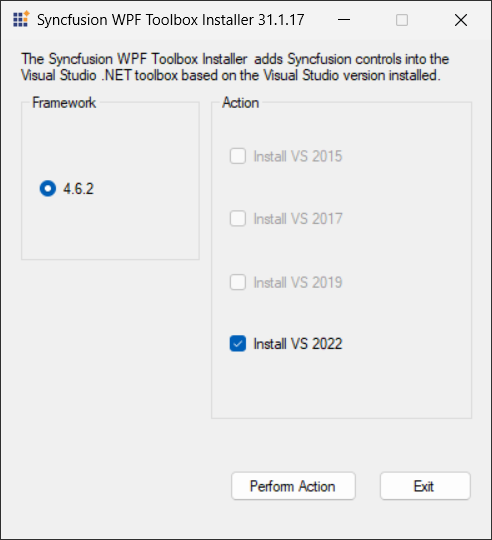
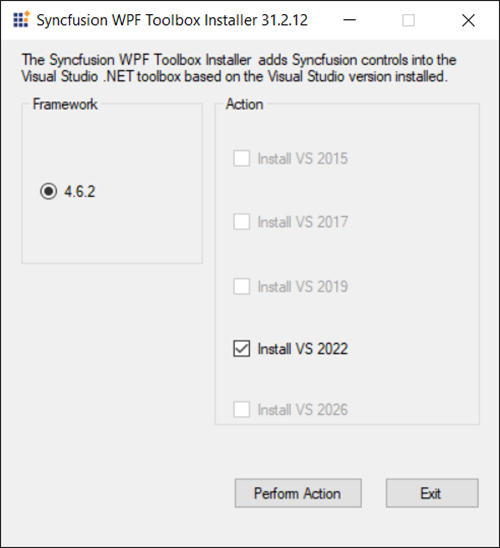
Added Toolbox and VS 2026 changes

diff --git a/Common/Essential-Studio/Utilities.md b/Common/Essential-Studio/Utilities.md
@@ -187,10 +187,10 @@ You can also open the Assembly Manager from {Installed location}\Syncfusion\Esse
    The Framework group box comprises of check boxes for the .NET Framework versions based on the Visual Studio SDK installed in the machine. The following check boxes are available:
 
    * 4.6.2 - Selecting **4.6.2** ensures installation of 4.6.2 assemblies into the GAC and assemblies folder. In cases where only Visual Studio 2017 SDK is installed, the 4.6.2 assemblies have to be deployed.
-   * 4.0 - Selecting **4.0** ensures installation of 4.0 assemblies into the GAC and assemblies folder. In cases where only Visual Studio 2015 SDK is installed, the 4.0 assemblies have to be deployed.   
 
    N> * From 2018 Volume 4, Syncfusion<sup style="font-size:70%">&reg;</sup> has removed the .NET Framework 4.5.1 and MVC3 assemblies from installer. Refer to [this](https://help.syncfusion.com/common/essential-studio/installation/essential-studio-platform-framework-add-ons) topic to enable 4.5.1 checkboxes.  
    * By default 2.0 is enabled in a system where Visual Studio 2008 SDK is installed.
+   * From 2024 Volume 4, Syncfusion<sup style="font-size:70%">&reg;</sup> has removed the .NET Framework 4.0 from installer.
 
 7. Click Perform Action. It starts processing.
 
@@ -279,9 +279,10 @@ You can copy the product key from the License Manager window to the clipboard. T
 
 ## Toolbox Configuration 
 
-Syncfusion<sup style="font-size:70%">&reg;</sup> provides toolbox support for WPF, Windows Forms, ASP.NET Web Forms, UWP and Xamarin platforms. The Syncfusion<sup style="font-size:70%">&reg;</sup> Toolbox Installer utility adds the Syncfusion<sup style="font-size:70%">&reg;</sup> controls into the Visual Studio .NET toolbox.
+Syncfusion<sup style="font-size:70%">&reg;</sup> provides toolbox support for WPF, Windows Forms, ASP.NET Web Forms, UWP, Xamarin, PDF Viewer SDK, Spreadsheet Editor SDK and DOCX Editor SDK platforms. The Syncfusion<sup style="font-size:70%">&reg;</sup> Toolbox Installer utility adds the Syncfusion<sup style="font-size:70%">&reg;</sup> controls into the Visual Studio .NET toolbox.
 
-N> Toolbox configuration support is not available for the Visual Studio Express Edition. However, you can manually configure the Syncfusion<sup style="font-size:70%">&reg;</sup> controls into the Visual Studio Express Toolbox. To do so, refer the [Manual Toolbox Configuration](https://help.syncfusion.com/common/faq/how-to-configure-the-toolbox-of-visual-studio-manually) .
+N> * Starting with the 2022 Volume 4 SP release, Syncfusion<sup style="font-size:70%">&reg;</sup> officially marked the EJ1 product as retired.
+* Toolbox configuration support is not available for the Visual Studio Express Edition. However, you can manually configure the Syncfusion<sup style="font-size:70%">&reg;</sup> controls into the Visual Studio Express Toolbox. To do so, refer the [Manual Toolbox Configuration](https://help.syncfusion.com/common/faq/how-to-configure-the-toolbox-of-visual-studio-manually) .
 
 ### Configuring Toolbox
 
@@ -315,8 +316,9 @@ To launch Toolbox configuration utility, follow the steps given below:
    
    * Install VS2015 – Configures Framework 4.6.2 Syncfusion<sup style="font-size:70%">&reg;</sup> controls in VS 2015 toolbox.
    * Install VS2017 – Configures Framework 4.6.2 Syncfusion<sup style="font-size:70%">&reg;</sup> controls in VS 2017 toolbox.
-   * Install VS2019 – Configures Framework 4.6.2 Syncfusion<sup style="font-size:70%">&reg;</sup> controls in VS 2019 toolbox
-   * Install VS2022 – Configures Framework 4.6.2 Syncfusion<sup style="font-size:70%">&reg;</sup> controls in VS 2022 toolbox
+   * Install VS2019 – Configures Framework 4.6.2 Syncfusion<sup style="font-size:70%">&reg;</sup> controls in VS 2019 toolbox.
+   * Install VS2022 – Configures Framework 4.6.2 Syncfusion<sup style="font-size:70%">&reg;</sup> controls in VS 2022 toolbox.
+   * Install VS2026 – Configures Framework 4.6.2 Syncfusion<sup style="font-size:70%">&reg;</sup> controls in VS 2026 toolbox.
    
     N> You can also configure Syncfusion<sup style="font-size:70%">&reg;</sup> controls from a lower version Framework assembly to higher version of Visual Studio.
    
@@ -329,12 +331,21 @@ To launch Toolbox configuration utility, follow the steps given below:
 
    * This tool configures only the controls that are located under {Installed Location}\Assemblies\{Framework version}.
 
+### Configuring toolbox in Visual Studio 2026   
+
+From 2025 Volume 3 SP 2 Release, Syncfusion<sup style="font-size:70%">&reg;</sup> started providing toolbox support for .NET Framework and .NET 8.0\9.0\10.0 in Visual Studio 2026 Toolbox. After installing the Syncfusion<sup style="font-size:70%">&reg;</sup> product installer, Syncfusion<sup style="font-size:70%">&reg;</sup> controls will be automatically configured in the Visual Studio 2026 toolbox for WPF, Windows projects.
+
 ### Configuring toolbox in Visual Studio 2022   
 
 From 2021 Volume 3, Syncfusion<sup style="font-size:70%">&reg;</sup> started providing toolbox support for .NET Framework and .NET 5.0\6.0 in Visual Studio 2022 Toolbox. After installing the Syncfusion<sup style="font-size:70%">&reg;</sup> product installer, Syncfusion<sup style="font-size:70%">&reg;</sup> controls will be automatically configured in the Visual Studio 2022 toolbox for WPF, Windows, and ASP.NET Web Forms projects.
 
 N> * Syncfusion<sup style="font-size:70%">&reg;</sup> WPF .NET 5.0 controls will be compatible with .NET 6.0, on installing the Syncfusion<sup style="font-size:70%">&reg;</sup> WPF installer, our .NET 5.0 controls will be configured the toolbox for .NET 6.0 projects too.
 * Syncfusion<sup style="font-size:70%">&reg;</sup> only supports ASP.NET Web Forms Toolbox in .NET Frameworks.
+* Starting with the 2022 Volume 4 SP release, Syncfusion<sup style="font-size:70%">&reg;</sup> officially marked the EJ1 product as retired.
+
+### Configuring toolbox for WPF .NET 8.0\9.0\10.0 projects
+
+From 2025 Volume 3 SP 2 Release, Syncfusion<sup style="font-size:70%">&reg;</sup> started providing toolbox support for WPF .NET 8.0\9.0\10.0 framework in Visual Studio 2026. Syncfusion<sup style="font-size:70%">&reg;</sup> controls will be automatically configured in the Visual Studio 2026 toolbox for WPF .NET 8.0\9.0\10.0 project, after installing the Syncfusion<sup style="font-size:70%">&reg;</sup> WPF, PDF Viewer SDK, Spreadsheet Editor SDK and DOCX Editor SDK installer.
 
 ### Configuring toolbox for WPF .NET 5.0\6.0 projects
 
